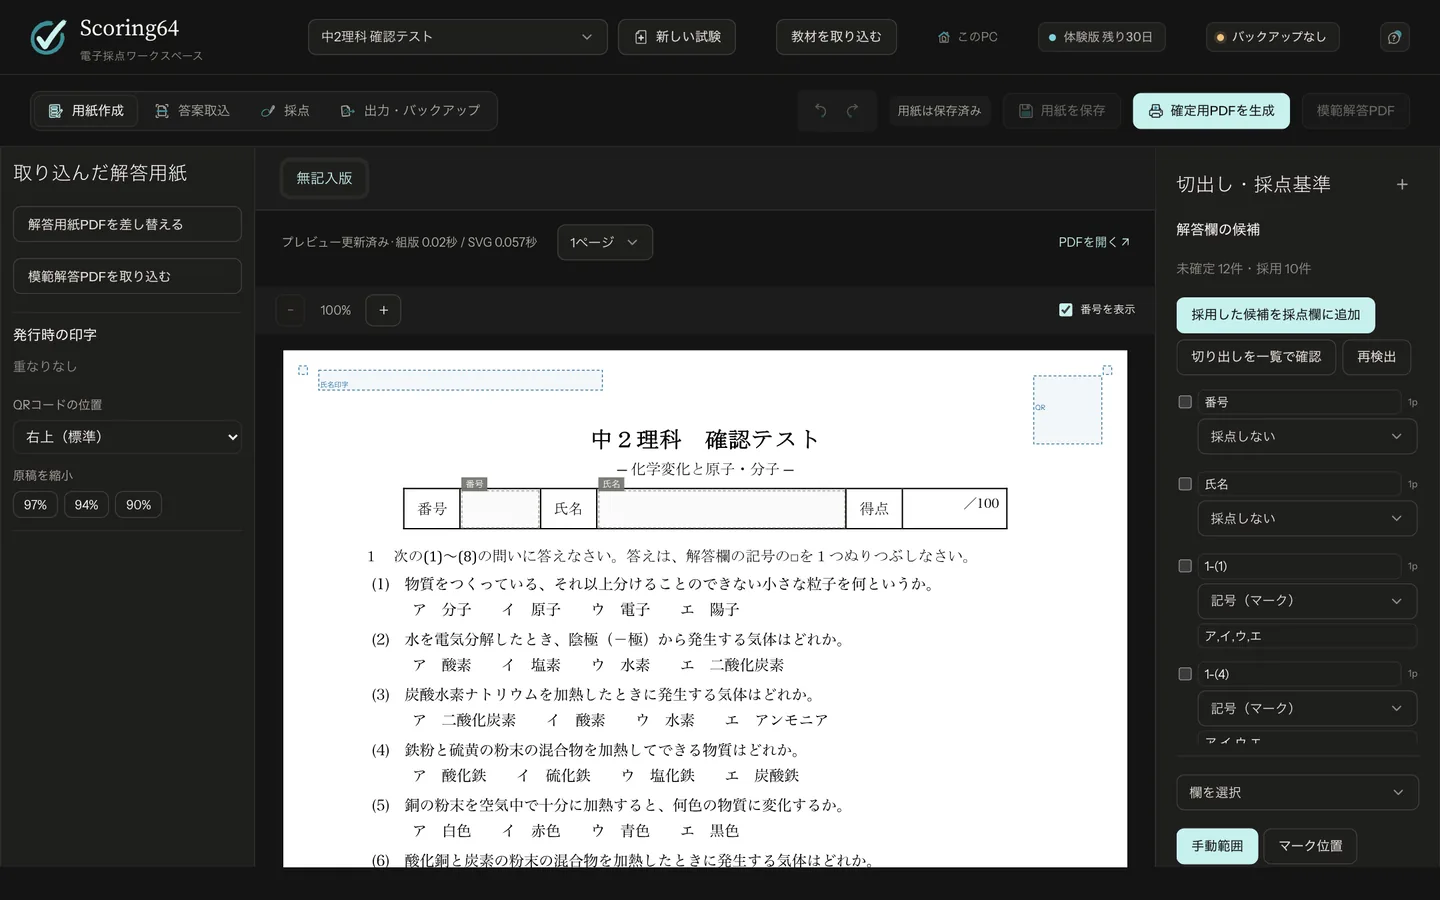
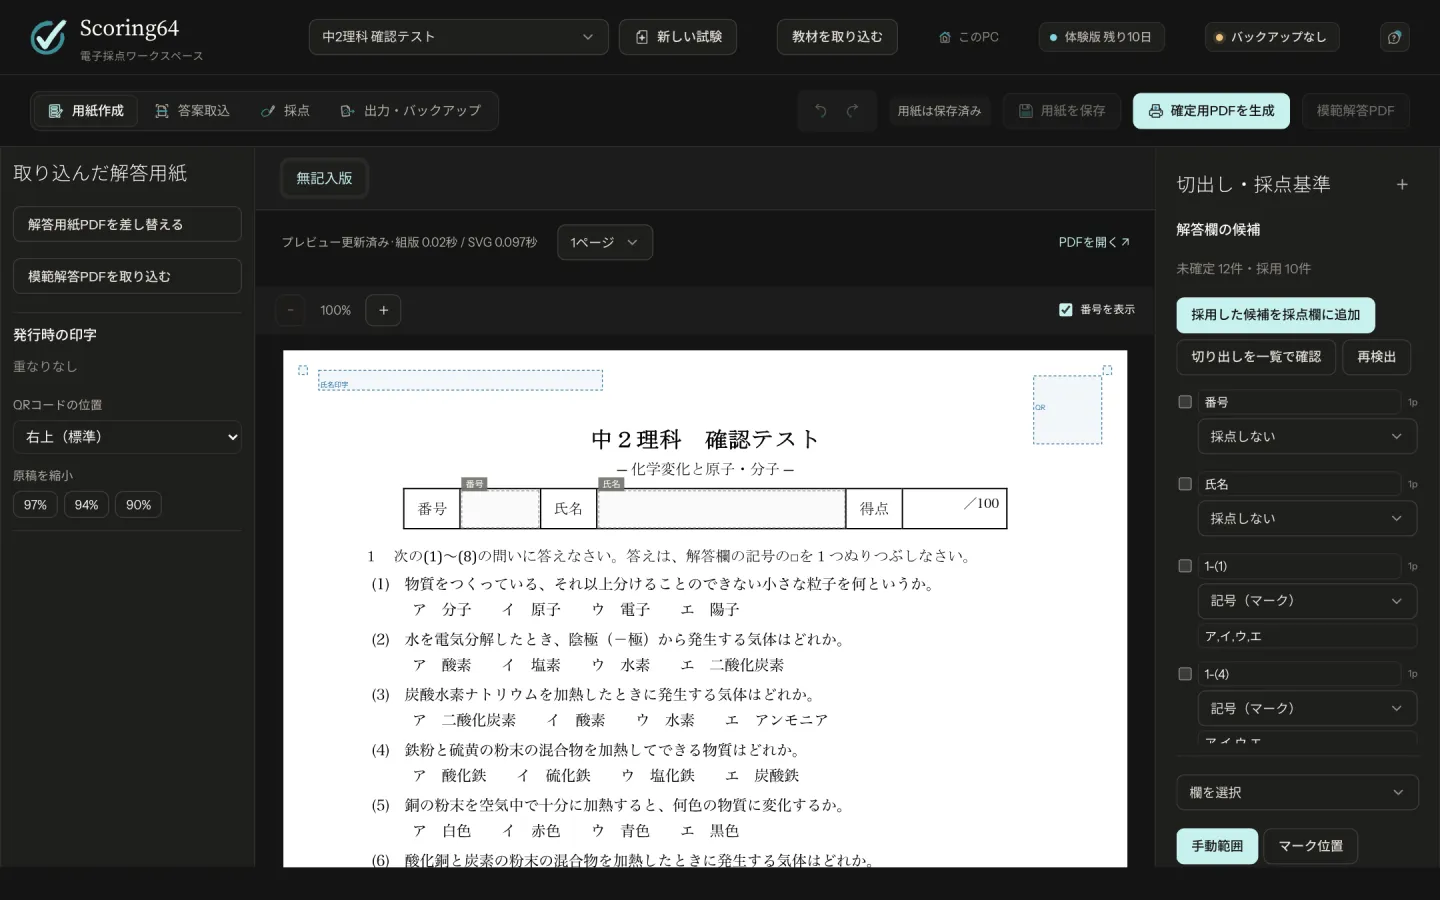
Show the new prices and the 10-day free trial, with photos retaken from the 10-day app

diff --git a/pricing.html b/pricing.html
@@ -3,7 +3,7 @@
 <head>
 <meta charset="utf-8">
 <title>料金と申し込み｜Scoring64</title>
-<meta name="description" content="月払い 4,400円、年払い 44,000円、買い切り 99,000円（税込）。30日間の無料お試し。">
+<meta name="description" content="月払い 6,600円、年払い 66,000円、買い切り 165,000円（税込）。10日間の無料お試し。">
 <meta name="viewport" content="width=device-width, initial-scale=1">
 <link rel="icon" href="assets/favicon.svg" type="image/svg+xml">
 <link rel="preconnect" href="https://fonts.googleapis.com">
@@ -45,28 +45,28 @@
       <div class="plans">
         <article class="plan" aria-labelledby="plan-monthly">
           <p class="plan-name" id="plan-monthly">Monthly<span>月払い</span></p>
-          <p class="price">4,400<span class="yen">円</span><span class="per">／月</span></p>
-          <p class="tax">税抜 4,000円</p>
+          <p class="price">6,600<span class="yen">円</span><span class="per">／月</span></p>
+          <p class="tax">税抜 6,000円</p>
           <p class="desc">1か月ごとのお支払い。まず少しずつ使いたい塾に。</p>
           <a class="btn btn-primary" href="https://buy.stripe.com/3cIfZg83eeHucKI4AO6oo02">カードで申し込む</a>
         </article>
         <article class="plan" aria-labelledby="plan-annual">
           <p class="plan-name" id="plan-annual">Annual<span>年払い</span></p>
-          <p class="price">44,000<span class="yen">円</span><span class="per">／年</span></p>
-          <p class="tax">税抜 40,000円</p>
+          <p class="price">66,000<span class="yen">円</span><span class="per">／年</span></p>
+          <p class="tax">税抜 60,000円</p>
           <div class="desc">
             <span class="perk">月払いより2か月分お得</span>
-            <p>1か月あたり約3,700円。</p>
+            <p>1か月あたり5,500円。</p>
           </div>
           <a class="btn btn-primary" href="https://buy.stripe.com/cNiaEW5V66aY264ffs6oo05">カードで申し込む</a>
         </article>
         <article class="plan" aria-labelledby="plan-perpetual">
           <p class="plan-name" id="plan-perpetual">Perpetual<span>買い切り</span></p>
-          <p class="price">99,000<span class="yen">円</span></p>
-          <p class="tax">税抜 90,000円</p>
+          <p class="price">165,000<span class="yen">円</span></p>
+          <p class="tax">税抜 150,000円</p>
           <div class="desc">
             <p>期限なく使えます。1年間のアップデートとサポート付き。</p>
-            <p class="small muted">2年目からの保守は任意で、年11,000円（税抜10,000円）。<a href="https://buy.stripe.com/9B614mbfq8j68us1oC6oo04">保守をカードで申し込む</a></p>
+            <p class="small muted">2年目からの保守は任意で、年16,500円（税抜15,000円）。<a href="https://buy.stripe.com/9B614mbfq8j68us1oC6oo04">保守をカードで申し込む</a></p>
           </div>
           <a class="btn btn-primary" href="https://buy.stripe.com/14A3cubfq56U6mk8R46oo03">カードで申し込む</a>
         </article>
@@ -80,7 +80,7 @@
       <table class="table stack">
         <tr><th scope="row">使える範囲</th><td>1教室で、生徒200人まで。パソコンの台数は無制限</td></tr>
         <tr><th scope="row">初期費用</th><td>0円</td></tr>
-        <tr><th scope="row">無料お試し</th><td>30日間。すべての機能を使えます</td></tr>
+        <tr><th scope="row">無料お試し</th><td>10日間。すべての機能を使えます</td></tr>
         <tr><th scope="row">サポート</th><td>アップデートとメールでのサポート（月払い・年払いは契約中、買い切りは1年間）</td></tr>
       </table>
       <div class="note">
@@ -93,7 +93,7 @@
   <section class="section" id="trial" aria-labelledby="trial-title">
     <div class="wrap measure">
       <h2 id="trial-title">お試しが終わったら</h2>
-      <p>入れた日から30日間は、キーなしですべての機能を使えます。30日が過ぎると、成績表と返却データの出力だけが止まります。作った試験や採点のデータは消えません。</p>
+      <p>入れた日から10日間は、キーなしですべての機能を使えます。10日が過ぎると、成績表と返却データの出力だけが止まります。作った試験や採点のデータは消えません。</p>
       <p>ご契約のキーを貼り付けると、そのまま続きから使えます。</p>
     </div>
   </section>

diff --git a/start.html b/start.html
@@ -40,7 +40,7 @@
     <ul class="toc" aria-label="このページの内容">
       <li><a href="#install">インストール</a></li>
       <li><a href="#first">初めて開く</a></li>
-      <li><a href="#key">30日間の無料期間とキー</a></li>
+      <li><a href="#key">10日間の無料期間とキー</a></li>
       <li><a href="#sample">見本で試す</a></li>
       <li><a href="#data">データの保存先</a></li>
       <li><a href="#uninstall">アンインストール</a></li>
@@ -117,8 +117,8 @@
   <section class="section" id="key" aria-labelledby="key-title">
     <div class="prose">
       <p class="eyebrow">03 · Licence key</p>
-      <h2 id="key-title">30日間の無料期間とキー</h2>
-      <p>入れた日から30日間は、キーなしですべての機能を使えます。右上に<span class="ui">「体験版 残り30日」</span>のように出ます。</p>
+      <h2 id="key-title">10日間の無料期間とキー</h2>
+      <p>入れた日から10日間は、キーなしですべての機能を使えます。右上に<span class="ui">「体験版 残り10日」</span>のように出ます。</p>
       <p>続けて使うときは、<a href="pricing.html">料金と申し込み</a>から申し込みます。キー（<code>S64-1.</code> で始まる長い文字列）がメールで届いたら、次のように入れます。</p>
       <ol class="steps">
         <li>画面の右上の<span class="ui">「体験版 残り◯日」</span>を押します。</li>
@@ -126,12 +126,12 @@
         <li><span class="ui">「登録」</span>を押します。作った試験や採点は、そのまま続きから使えます。</li>
       </ol>
       <figure class="shot wide">
-        <a class="zoom" href="assets/img/s12-licence.webp"><img src="assets/img/s12-licence.webp" width="1440" height="900" loading="lazy" alt="ライセンスの画面。「体験版」「残り30日」「10月26日まで」と大きく出て、下にメールで届いたキーを貼り付ける欄と「申し込む」「閉じる」「登録」がある"></a>
+        <a class="zoom" href="assets/img/s12-licence.webp"><img src="assets/img/s12-licence.webp" width="1440" height="900" loading="lazy" alt="ライセンスの画面。「体験版」「残り10日」「10月7日まで」と大きく出て、下にメールで届いたキーを貼り付ける欄と「申し込む」「閉じる」「登録」がある"></a>
         <figcaption><span class="fig-no">図 4</span>キーの画面。残りの日数を確かめて、届いたキーを貼り付けます</figcaption>
       </figure>
       <div class="note">
         <span class="note-label">NOTE</span>
-        <p>30日が過ぎても、見本で試す・取り込み・採点はできます。止まるのは、成績表と返却データの出力だけです。データは消えません。</p>
+        <p>10日が過ぎても、見本で試す・取り込み・採点はできます。止まるのは、成績表と返却データの出力だけです。データは消えません。</p>
       </div>
     </div>
   </section>

diff --git a/faq.html b/faq.html
@@ -91,7 +91,7 @@
           <p>キーの期限が過ぎています。期限が過ぎると、成績表と返却データの出力だけが止まります。採点・バックアップ・復元はこれまでどおり使え、データも消えません。</p>
           <p>新しいキーを<span class="ui">「キーを入力」</span>から貼り付けると、すぐに出力できます。</p>
           <figure class="shot">
-            <a class="zoom" href="assets/img/s13-licence-expired.webp"><img src="assets/img/s13-licence-expired.webp" width="1440" height="900" loading="lazy" alt="期限が過ぎたときの出力の画面。「30日間の無料体験が終わったため、成績表と返却の出力を止めています」と出て、横に「キーを入力」のボタンと「申し込む」がある"></a>
+            <a class="zoom" href="assets/img/s13-licence-expired.webp"><img src="assets/img/s13-licence-expired.webp" width="1440" height="900" loading="lazy" alt="期限が過ぎたときの出力の画面。「10日間の無料体験が終わったため、成績表と返却の出力を止めています」と出て、横に「キーを入力」のボタンと「申し込む」がある"></a>
             <figcaption>期限が過ぎたときの出力の画面</figcaption>
           </figure>
         </div>
@@ -158,7 +158,7 @@
       <div class="qa" id="q-trial-end">
         <h3>お試しが終わると、どうなりますか</h3>
         <div class="a">
-          <p>入れた日から30日が過ぎると、成績表と返却データの出力だけが止まります。作った試験や採点のデータは消えません。お申し込みのあとに届くキーを貼り付けると、そのまま続きから使えます。</p>
+          <p>入れた日から10日が過ぎると、成績表と返却データの出力だけが止まります。作った試験や採点のデータは消えません。お申し込みのあとに届くキーを貼り付けると、そのまま続きから使えます。</p>
         </div>
       </div>
 

diff --git a/index.html b/index.html
@@ -64,8 +64,8 @@
         </li>
         <li>
           <span class="num">02</span>
-          <h3>30日間、無料で使う</h3>
-          <p>入れた日から30日間は、キーなしですべての機能を使えます。申し込みも要りません。</p>
+          <h3>10日間、無料で使う</h3>
+          <p>入れた日から10日間は、キーなしですべての機能を使えます。申し込みも要りません。</p>
           <a href="start.html#key">無料期間とキー</a>
         </li>
         <li>
@@ -99,7 +99,7 @@
         <li><a href="guide.html"><span class="t">使い方</span><span class="d">用紙の用意から返却まで、6つの手順</span></a></li>
         <li><a href="videos.html"><span class="t">使い方の動画</span><span class="d">手順ごとの短い動画</span></a></li>
         <li><a href="faq.html"><span class="t">よくある質問</span><span class="d">困ったとき、動作環境、料金</span></a></li>
-        <li><a href="pricing.html"><span class="t">料金と申し込み</span><span class="d">月4,400円から。30日間無料</span></a></li>
+        <li><a href="pricing.html"><span class="t">料金と申し込み</span><span class="d">月6,600円から。10日間無料</span></a></li>
         <li><a href="contact.html"><span class="t">お問い合わせ</span><span class="d">メールと改善点フォーム</span></a></li>
       </ul>
     </div>
